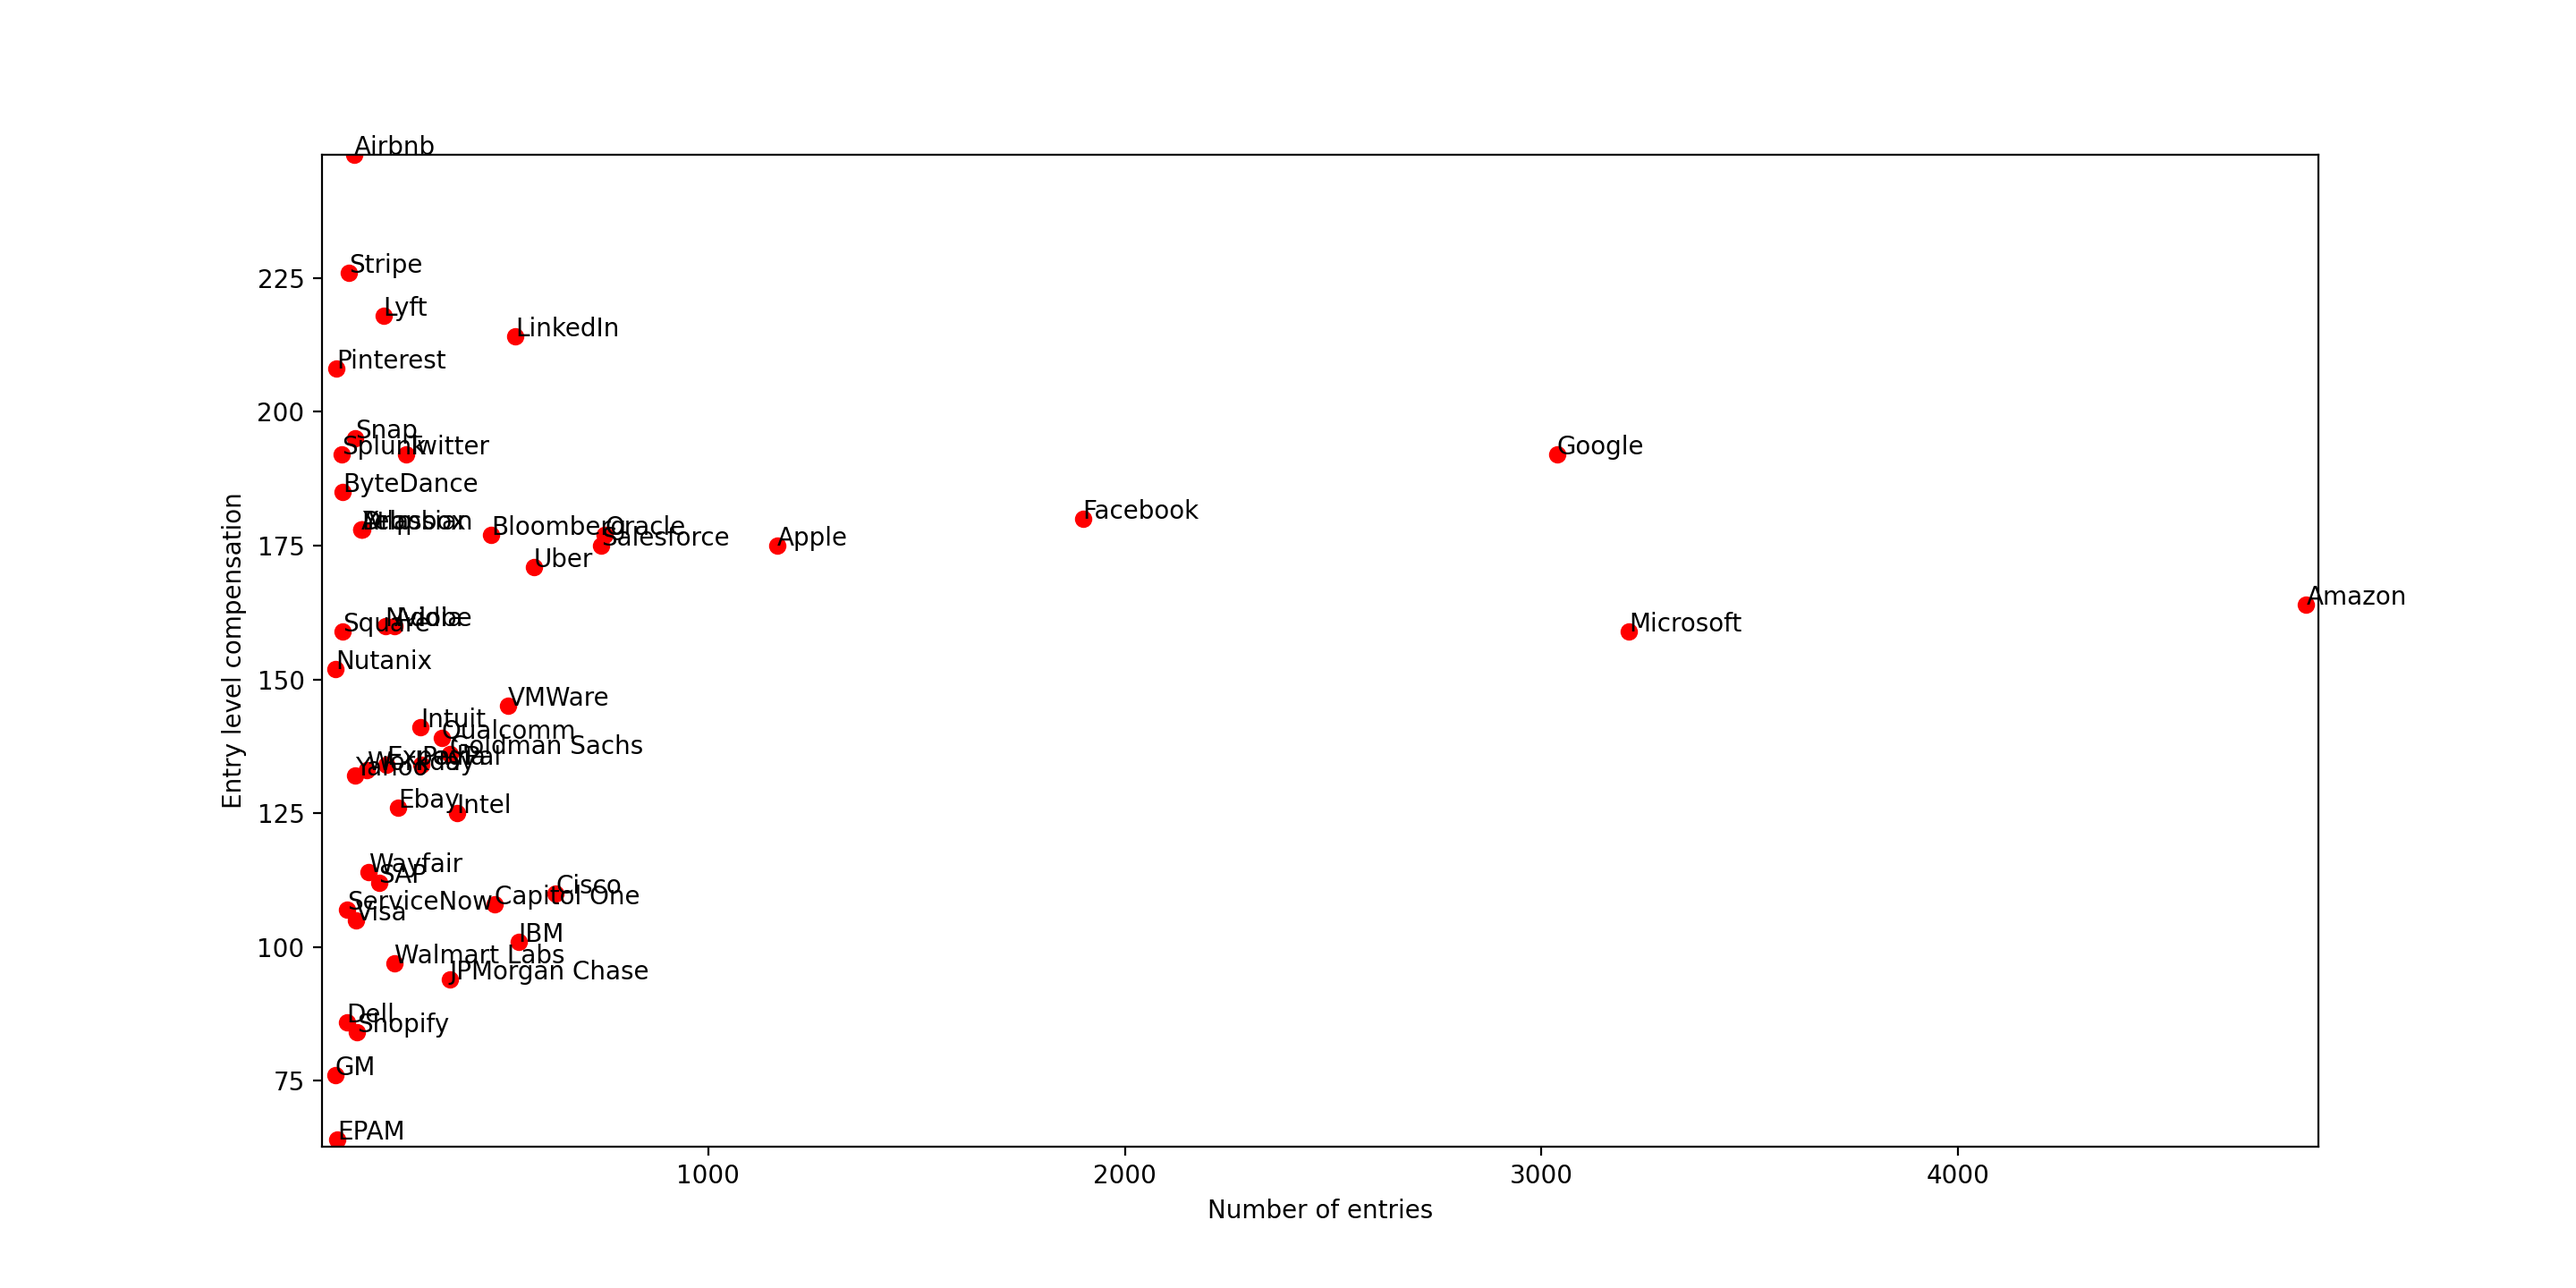
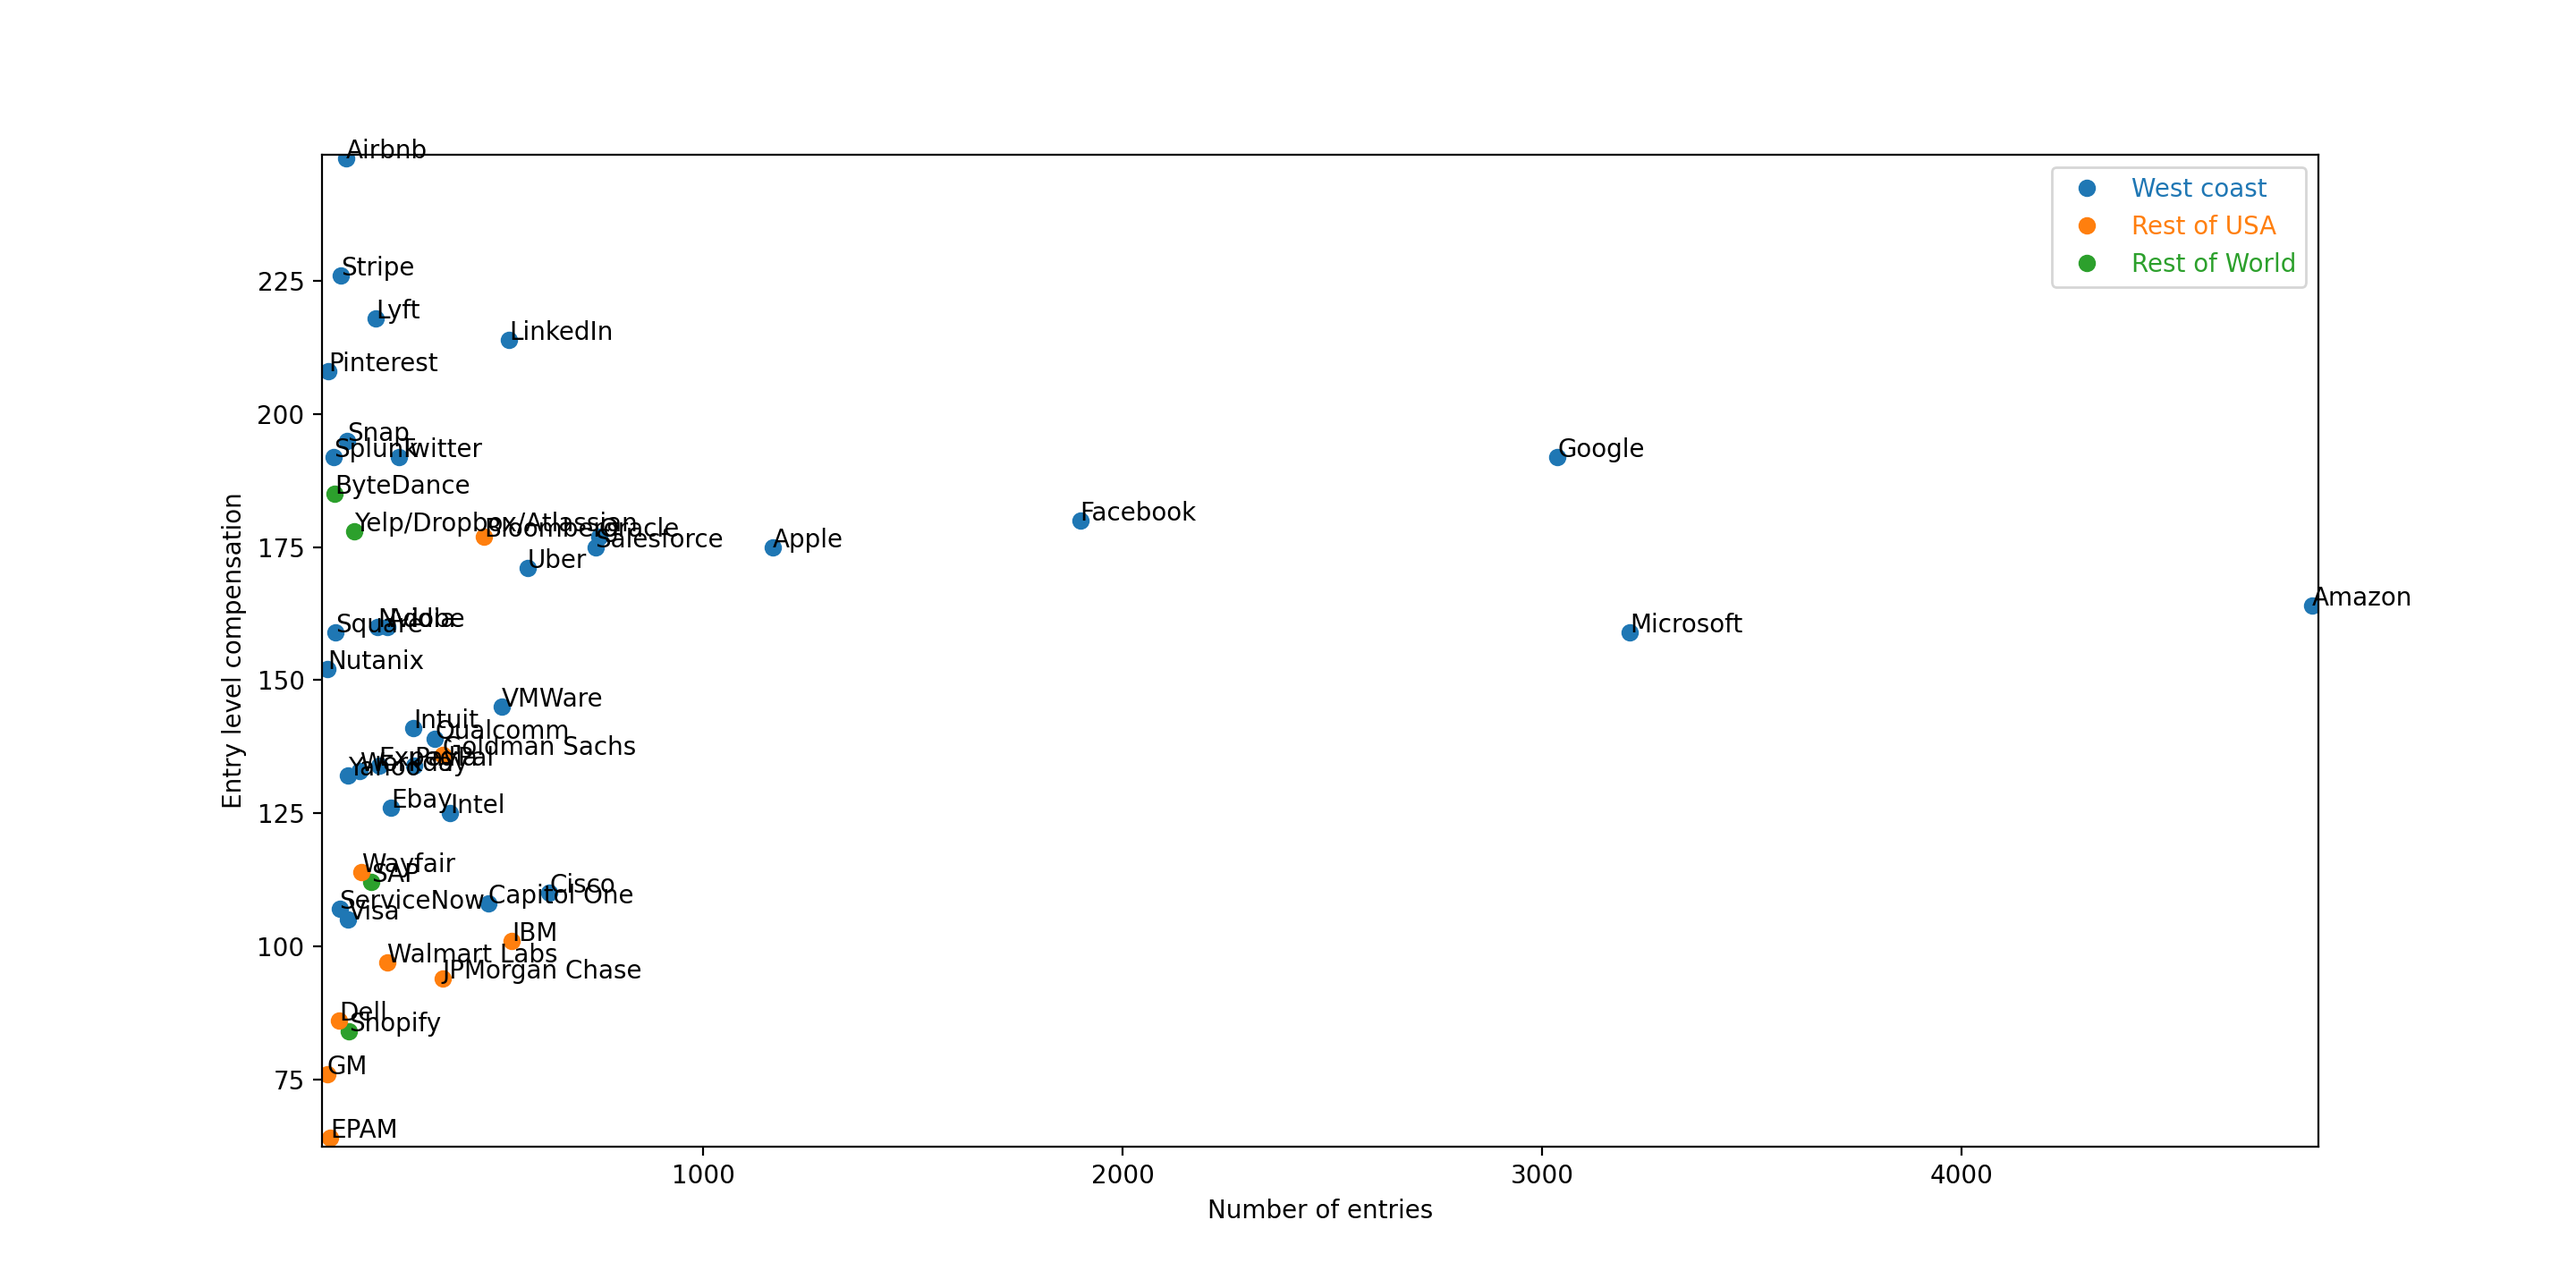
color coding compensation graph based on location

diff --git a/tech-compensation/main.py b/tech-compensation/main.py
@@ -51,9 +51,17 @@ map = {
 'GM': [104, 76],
 }
 for i in map:
-    plt.plot(map[i][0], map[i][1], 'or')
+    if 1 in [c in i for c in {'SAP', 'Atlassian', 'Shopify', 'Yandex', 'ByteDance'}]:
+        plt.plot(map[i][0], map[i][1], 'oC2')
+    elif 1 in [c in i for c in {'IBM', 'Capital One', 'Bloomberg', 'Goldman Sachs', 'JPMorgan Chase', 'Walmart Labs', 'Wayfair', 'Dell', 'EPAM', "GM"}]:
+        plt.plot(map[i][0], map[i][1], 'oC1')
+    else:
+        plt.plot(map[i][0], map[i][1], 'oC0')
     plt.annotate(i, (map[i][0], map[i][1]))
 
 plt.xlabel('Number of entries')
 plt.ylabel('Entry level compensation')
+plt.legend([plt.plot([], [], 'o')[0] for i in range(3)],
+           ['West coast', 'Rest of USA', 'Rest of World'],
+           labelcolor=['C0', 'C1', 'C2'])
 plt.show()
